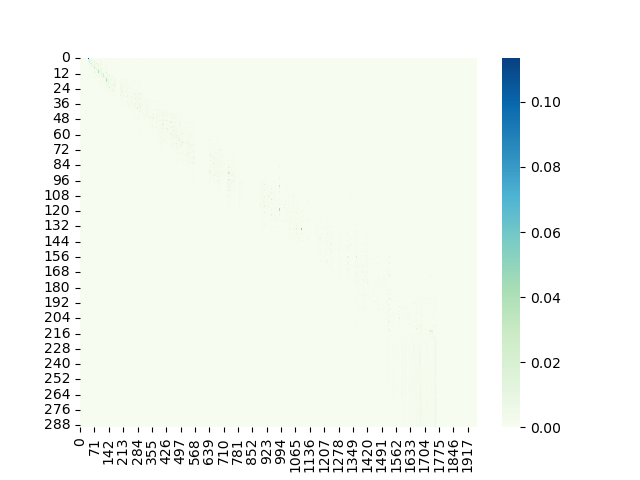
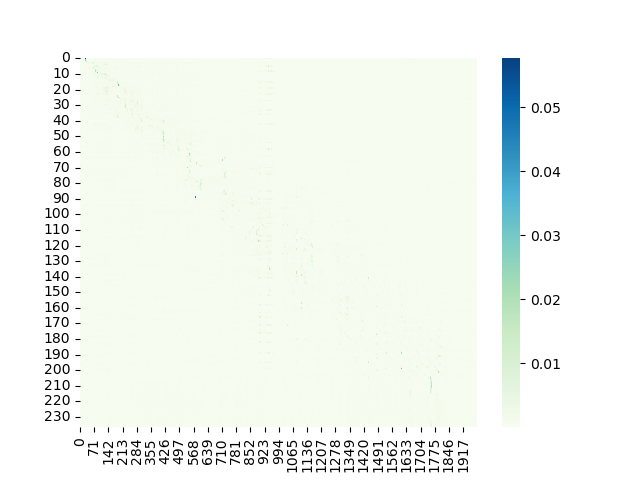
fixed some bug with tokenizers and modified recorgnize function

diff --git a/hw_tokenizers.py b/hw_tokenizers.py
@@ -56,15 +56,15 @@ class GTokenizer:
         self.token_type = token_type
         self.vocab, self.inv_vocab = None, None
         if token_type == '1k':
-            self.tokenizer = AutoTokenizer.from_pretrained("alexgichamba/hw4_tokenizer_1k")
+            self.tokenizer = AutoTokenizer.from_pretrained("alexgichamba/hw4_tokenizer_1k",force_download=True,use_fast=False)
         elif token_type == '10k':
-            self.tokenizer = AutoTokenizer.from_pretrained("alexgichamba/hw4_tokenizer_10k")
+            self.tokenizer = AutoTokenizer.from_pretrained("alexgichamba/hw4_tokenizer_10k",force_download=True,use_fast=False)
         elif token_type == '20k':
-            self.tokenizer = AutoTokenizer.from_pretrained("alexgichamba/hw4_tokenizer_20k")
+            self.tokenizer = AutoTokenizer.from_pretrained("alexgichamba/hw4_tokenizer_20k",force_download=True,use_fast=False)
         elif token_type == '50k':
-            self.tokenizer = AutoTokenizer.from_pretrained("alexgichamba/hw4_tokenizer_50k")
+            self.tokenizer = AutoTokenizer.from_pretrained("alexgichamba/hw4_tokenizer_50k",force_download=True,use_fast=False)
         elif token_type  == '100k':
-            self.tokenizer = AutoTokenizer.from_pretrained("alexgichamba/hw4_tokenizer_100k")
+            self.tokenizer = AutoTokenizer.from_pretrained("alexgichamba/hw4_tokenizer_100k",force_download=True,use_fast=False)
         elif token_type == 'char':
             self.tokenizer = CharTokenizer()
 

diff --git a/decoder.py b/decoder.py
@@ -192,7 +192,8 @@ class Decoder(torch.nn.Module):
             # preparing attention masks
             # filled with ones becaues we want to attend to all the elements in the sequence
             pad_mask = torch.ones_like(target_seq).float().unsqueeze(-1)  # (batch_size x i x 1)
-            slf_attn_mask_subseq = create_mask_2(target_seq,repeat=self.num_heads).to(enc_outputs.device)
+            
+            slf_attn_mask_subseq = create_mask_2(target_seq,repeat=self.num_heads).to(enc_outputs.device) #To be used in LM
             pad_mask_enc = create_mask_1(enc_outputs,pad_idx=self.PAD_TOKEN).to(enc_outputs.device)
             x = self.positional_encoding(self.target_embedding(target_seq))
             x  = x + self.dropout(x)

diff --git a/main.py b/main.py
@@ -221,8 +221,7 @@ if __name__ == "__main__":
 
         attention_weights_decoder_self       = attention_weights[attention_keys[0]][0].cpu().detach().numpy()
         attention_weights_decoder_cross      = attention_weights[attention_keys[-1]][0].cpu().detach().numpy()
-        attention_weights_decoder_cross = (attention_weights_decoder_cross - attention_weights_decoder_cross.min())
-        attention_weights_decoder_self = (attention_weights_decoder_self - attention_weights_decoder_self.min())
+       
         save_attention_plot(attention_weights_decoder_cross, epoch)
         save_attention_plot(attention_weights_decoder_self, epoch+100)
         if config["scheduler"] == "ReduceLR":
